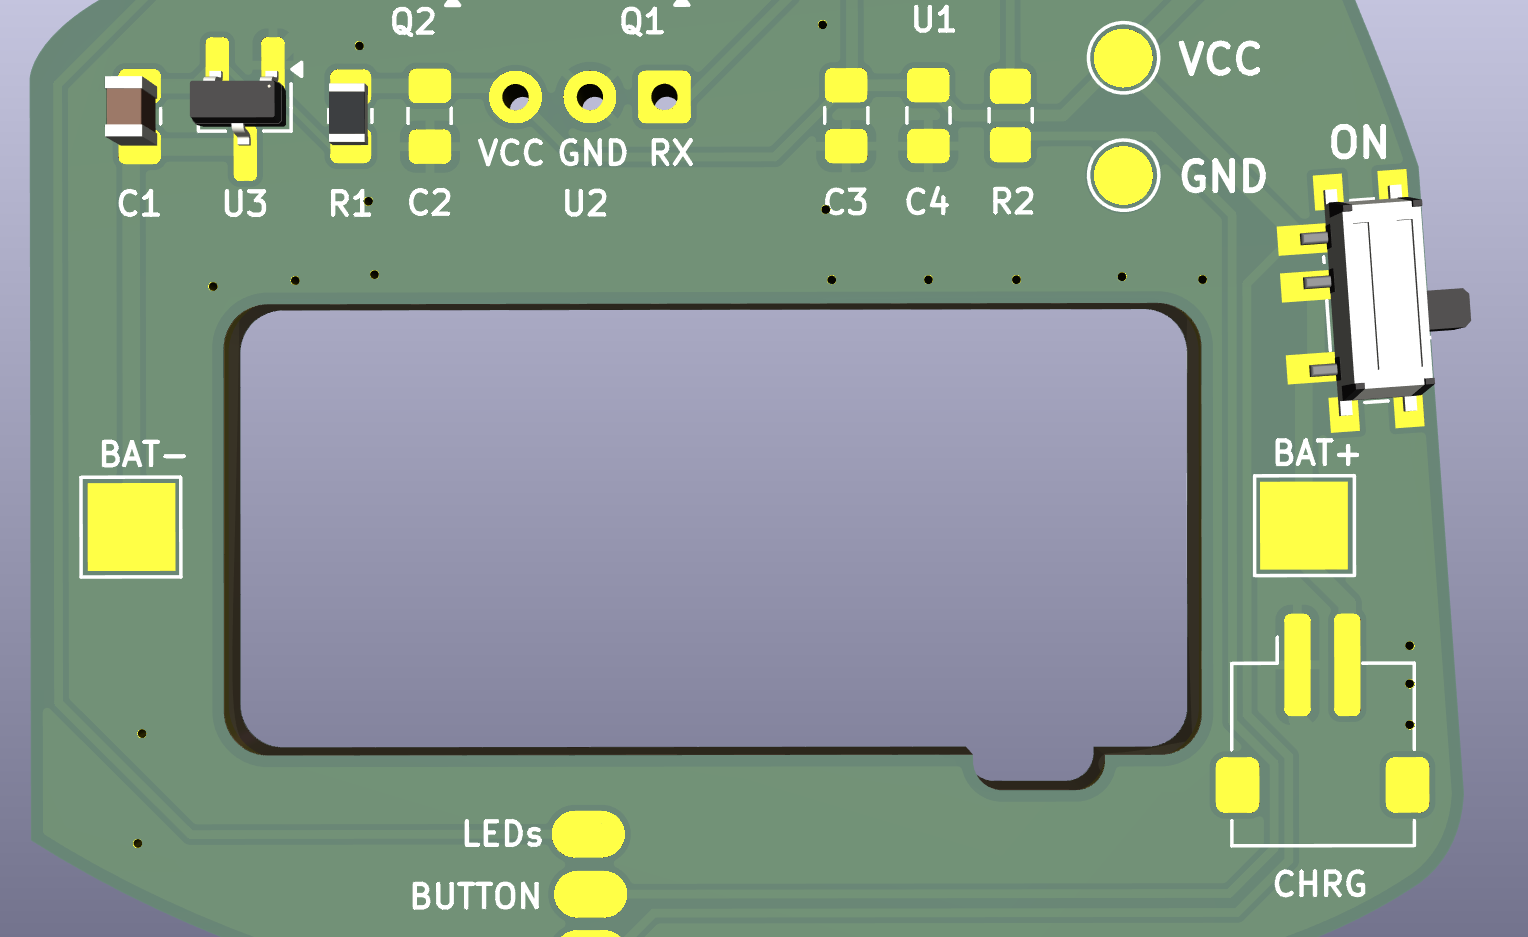
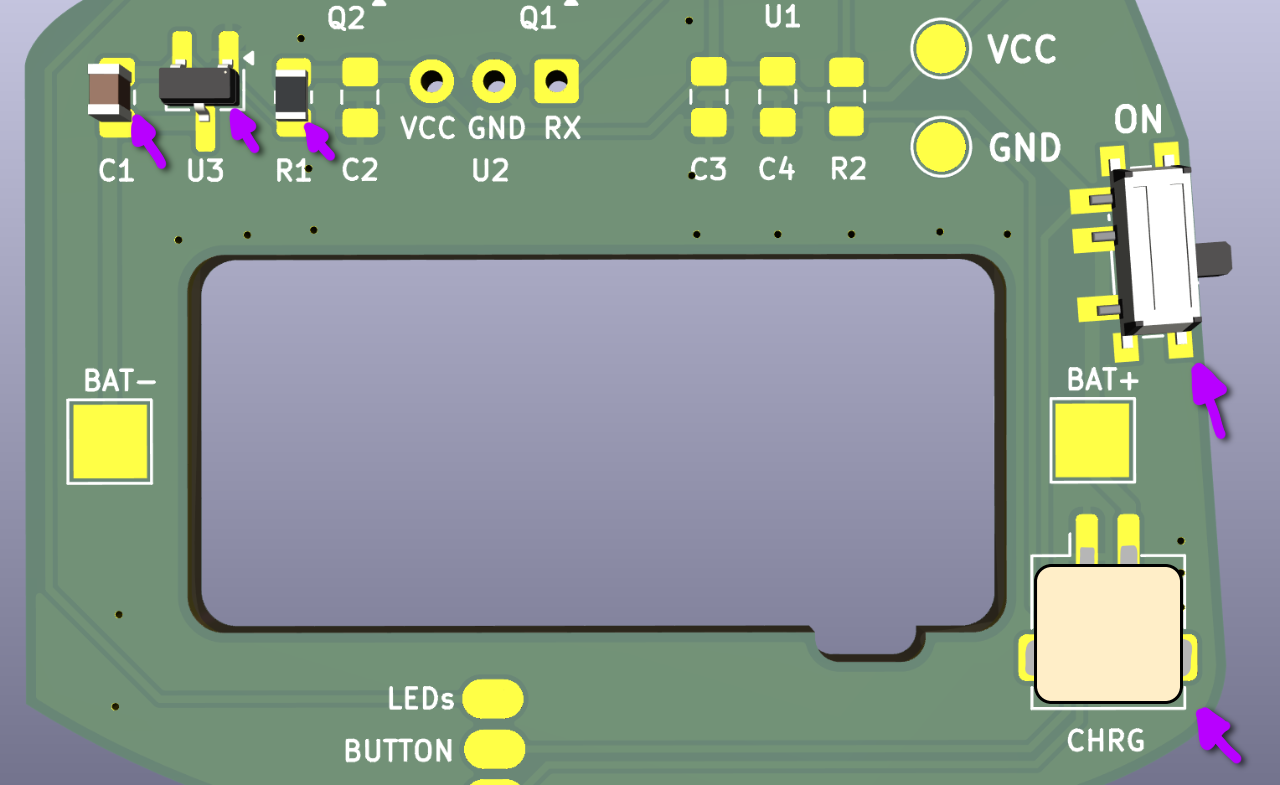
assembly manual: arrows and new images

diff --git a/README.md b/README.md
@@ -88,6 +88,8 @@ Components:
 - 22µF for C4
 - CH32V003 for U1
 
+Note: Align the pin 1 marking (circle) on the microcontroller with the arrow on the PCB.
+
 <img src="media/step5.png" alt="Step 5: solder C3, C4 and U1">
 
 
@@ -97,7 +99,7 @@ Components:
 - 120Ω for R2
 
 
-<img src="media/step7.png" alt="Step 6: solder Q2 and R2">
+<img src="media/step6.png" alt="Step 6: solder Q2 and R2">
 
 
 ### 7. Receiver
@@ -108,7 +110,7 @@ Components:
 
 The receiver is mounted on the other side of the PCB, otherwise no one can hit you and that is cheating. Insert the legs and bend the receiver to fit in the square on the PCB before soldering.
 
-<img src="media/step6.png" alt="Step 7: solder C2 and U2 on the back side">
+<img src="media/step7.jpg" alt="Step 7: Solder receiver">
 
 
 ### 8. Program the microcontroller
